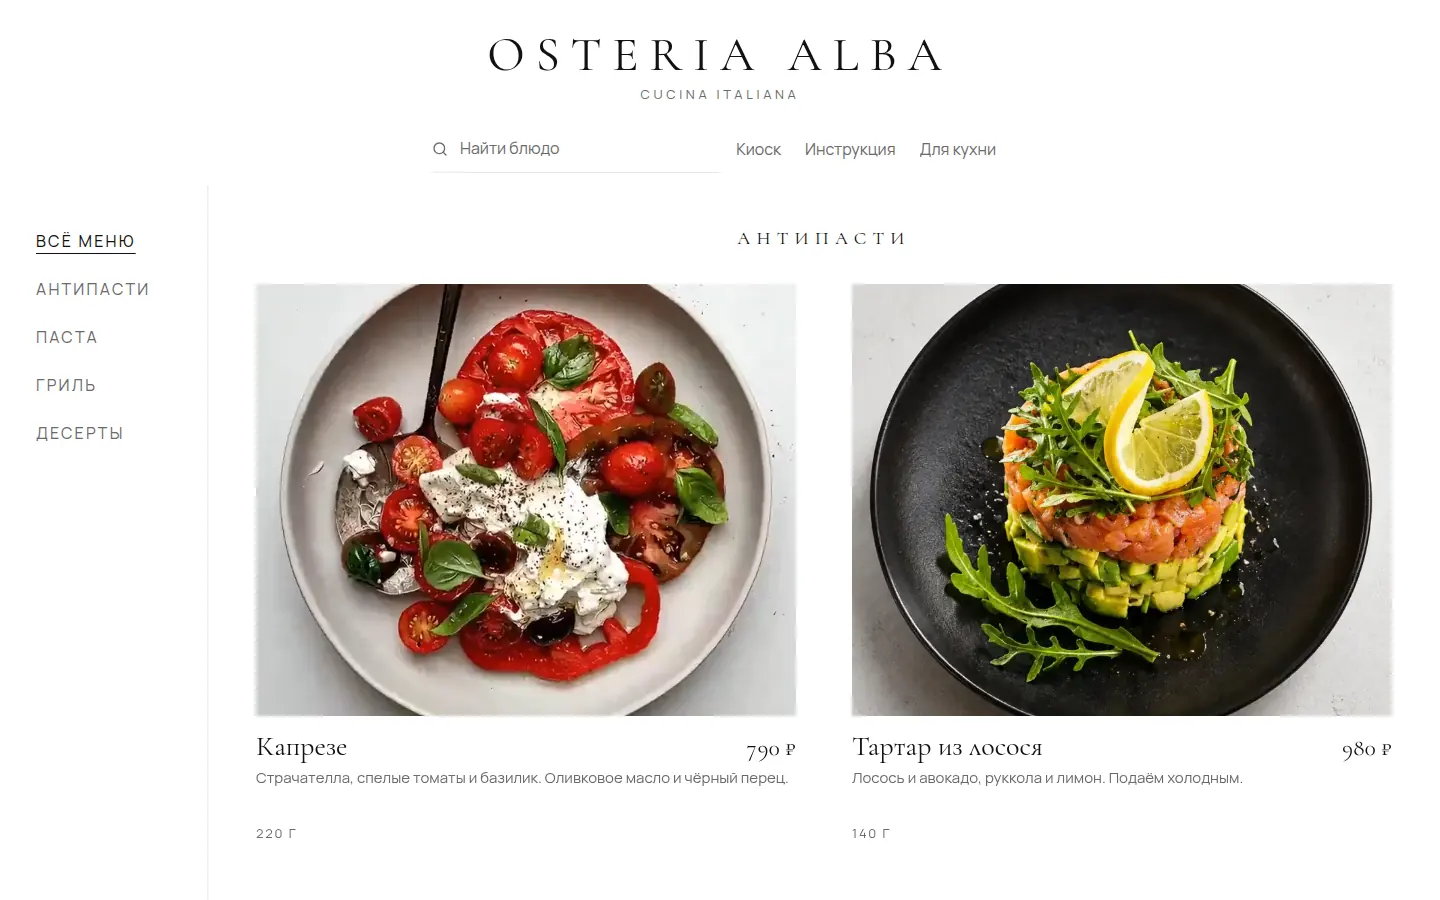
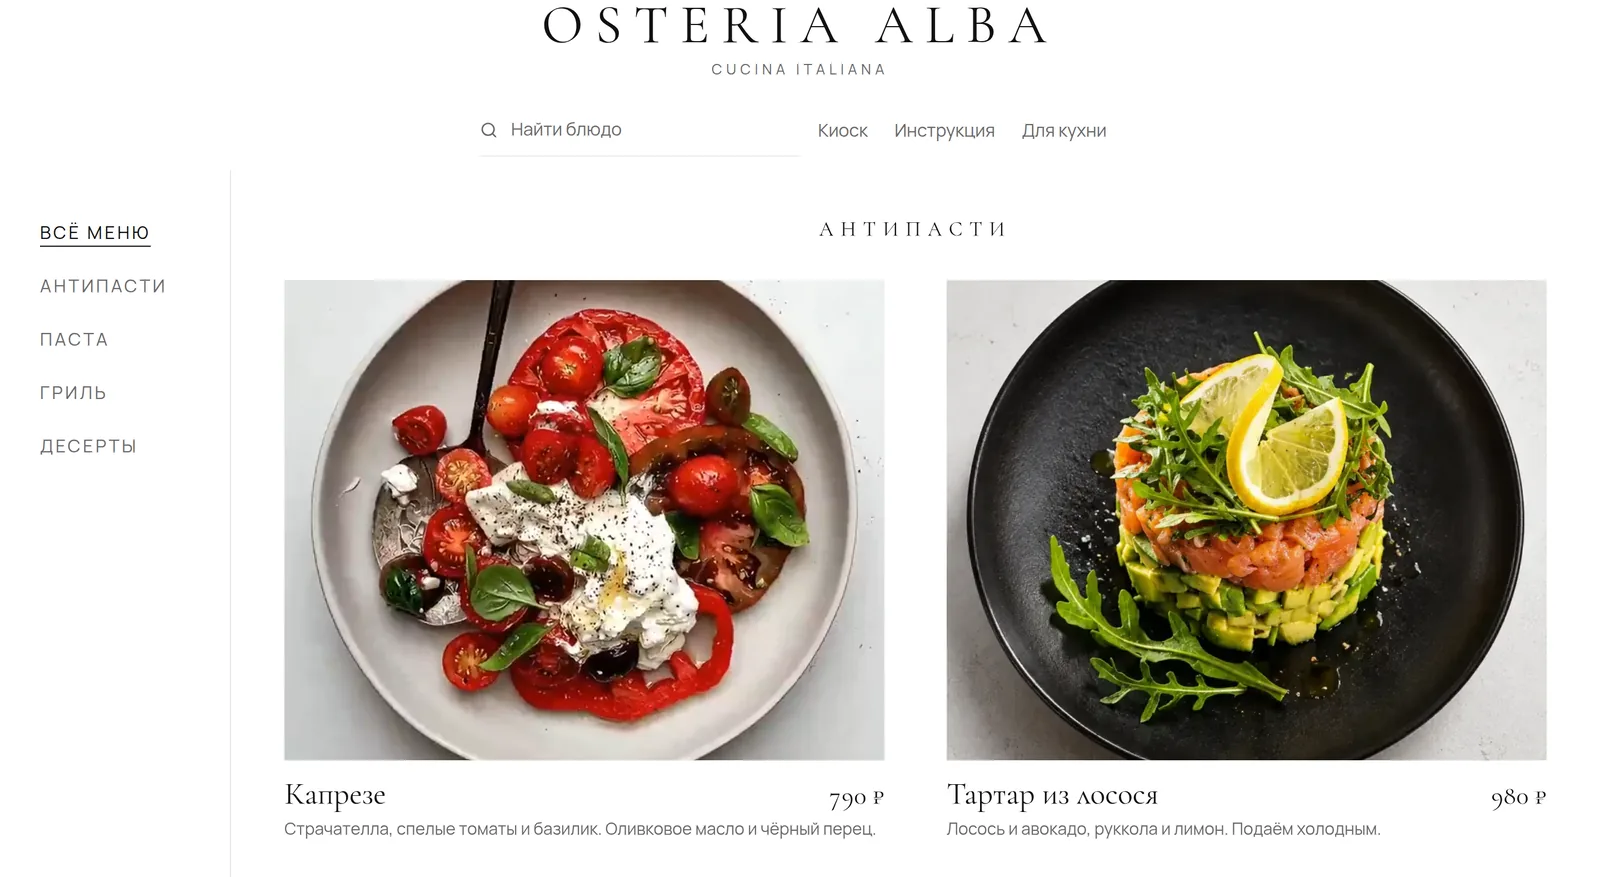
fix: place Osteria Alba in the two-column case
The third project was landing on the stacked layout, so the hall shot spanned the section and the summary sat underneath it. Pin mediaStart and use a 1600×877 frame like the other shots.

diff --git a/src/shared/i18n/messages.ts b/src/shared/i18n/messages.ts
@@ -152,7 +152,7 @@ const en = {
         summary:
           "A dining-room menu for iPad: antipasti, pasta, grill, and desserts. A tile shows the photo, name, price, a short description, and the weight. The card adds composition, calories, and tags, and a silent clip plays on the photo when the dish has one. The kitchen edits dishes in the admin, and GitHub Actions publishes the hall.",
         imageAlt:
-          "Osteria Alba hall menu: the wordmark, the category list, and antipasti tiles for caprese and salmon tartare with photos, prices, and weight.",
+          "Osteria Alba hall menu: the wordmark, the category list, and antipasti tiles for caprese and salmon tartare with photos and prices.",
         imageCaption: "Hall · 1440",
         notes: [
           {
@@ -397,7 +397,7 @@ const ru = {
         summary:
           "Меню зала для iPad: антипасти, паста, гриль и десерты. На плитке фото, название, цена, короткое описание и вес. В карточке состав, калории и теги; если у блюда есть ролик, он играет на фото без звука. Кухня правит блюда в админке, GitHub Actions публикует зал.",
         imageAlt:
-          "Меню зала Osteria Alba: словомарка, список категорий и плитки антипасти «Капрезе» и «Тартар из лосося» с фото, ценой и весом.",
+          "Меню зала Osteria Alba: словомарка, список категорий и плитки антипасти «Капрезе» и «Тартар из лосося» с фото и ценой.",
         imageCaption: "Зал · 1440",
         notes: [
           {

diff --git a/src/shared/config/projects.ts b/src/shared/config/projects.ts
@@ -80,7 +80,8 @@ export const projects: Project[] = [
     github: "https://github.com/notnamejack/menu",
     live: "https://notnamejack.github.io/menu/",
     image: osteria,
-    imageWidth: 1440,
-    imageHeight: 900,
+    imageWidth: 1600,
+    imageHeight: 877,
+    layout: "mediaStart",
   },
 ];
